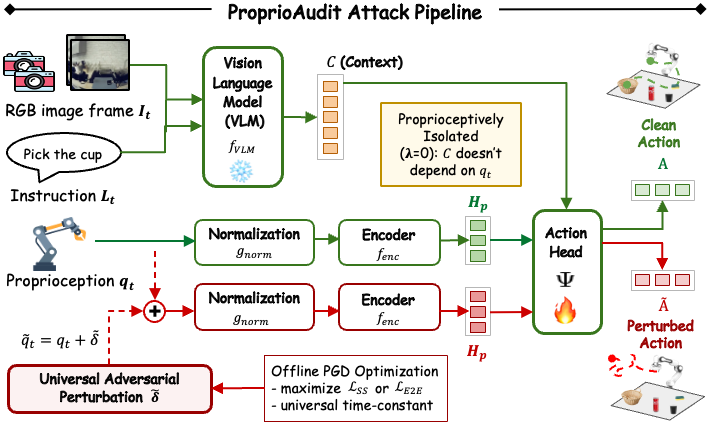
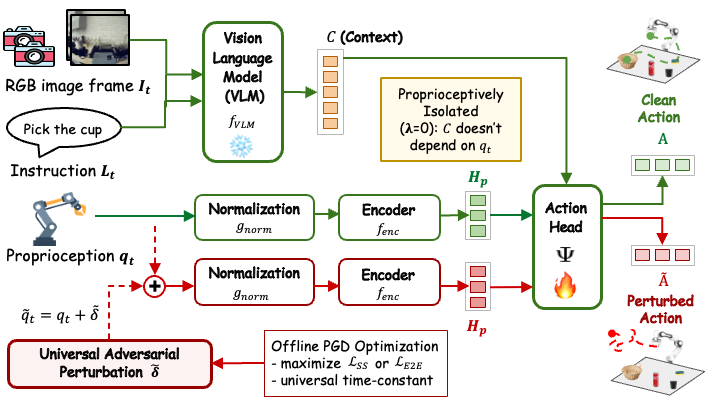
Center pipeline images and reduce display scale to 75%

diff --git a/static/css/index.css b/static/css/index.css
@@ -54,14 +54,15 @@ body {
 
 .pipeline-figure {
   margin: 0;
+  text-align: center;
 }
 
 .pipeline-figure img {
-  width: 100%;
-  max-width: 100%;
+  display: block;
+  margin: 0 auto;
+  max-width: 75%;
   height: auto;
   border-radius: 8px;
-  display: block;
 }
 
 .dnerf {